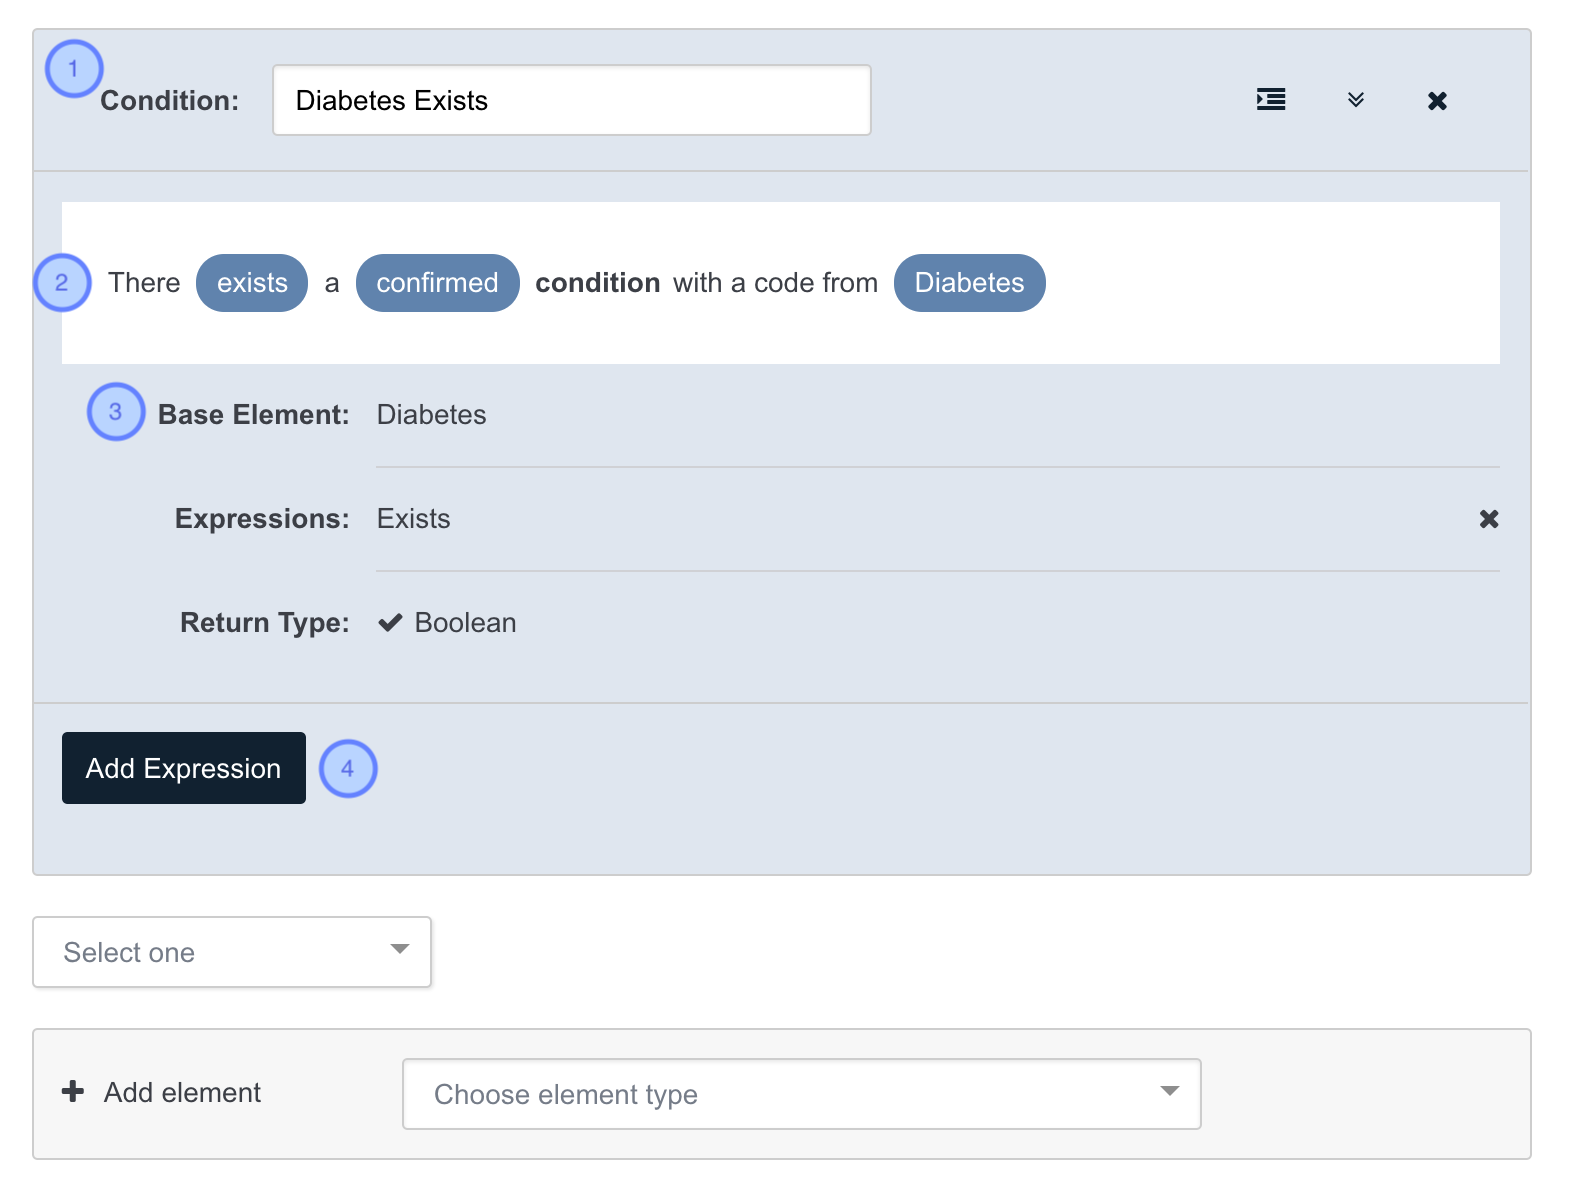
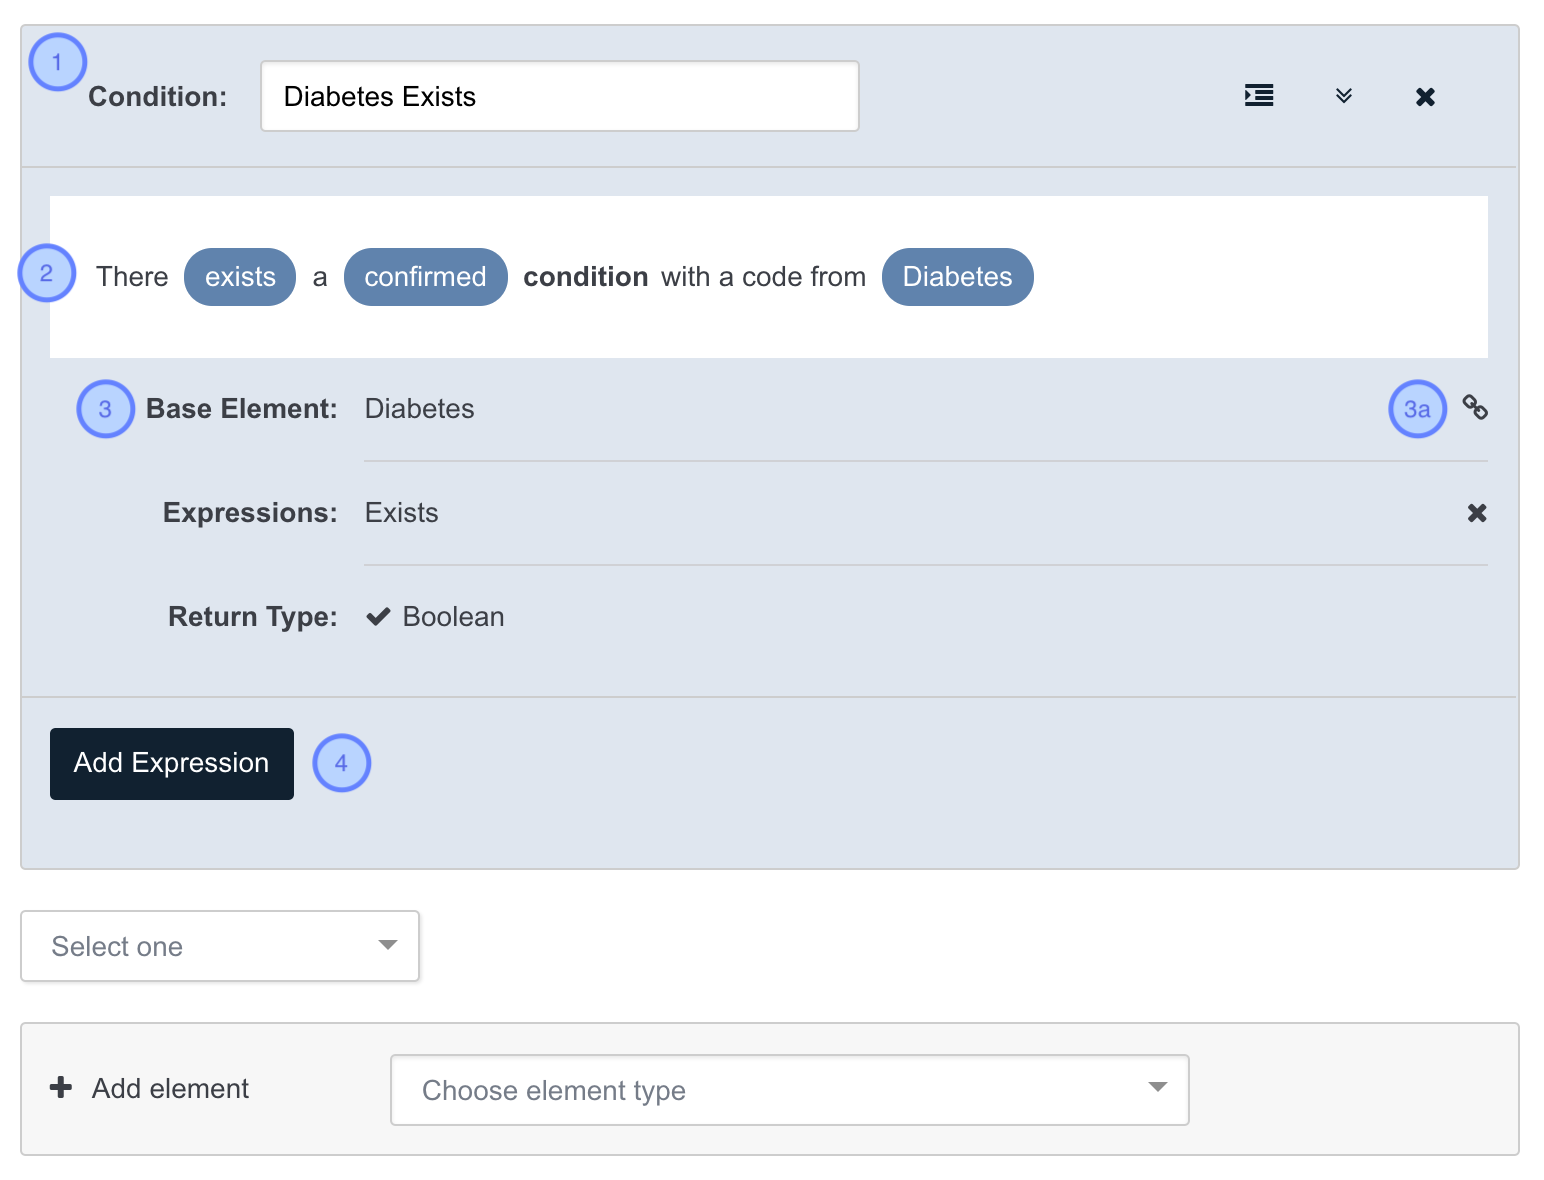
Updated User Guide screenshot and documentation.

diff --git a/frontend/src/components/UserGuide.js b/frontend/src/components/UserGuide.js
@@ -893,6 +893,11 @@ export default class UserGuide extends Component {
                   </li>
                   <li>
                     The Base Element use specifies the original Base Element name to easily identify its origin.
+                    <ol type='a'>
+                      <li>
+                        Clicking the link icon next to the original Base Element name switches to the Base Elements tab
+                        and scrolls down to that Base Element's definition.</li>
+                    </ol>
                   </li>
                   <li>
                     Expressions can be added to Base Element uses the same as any other Element. Expressions that can be
